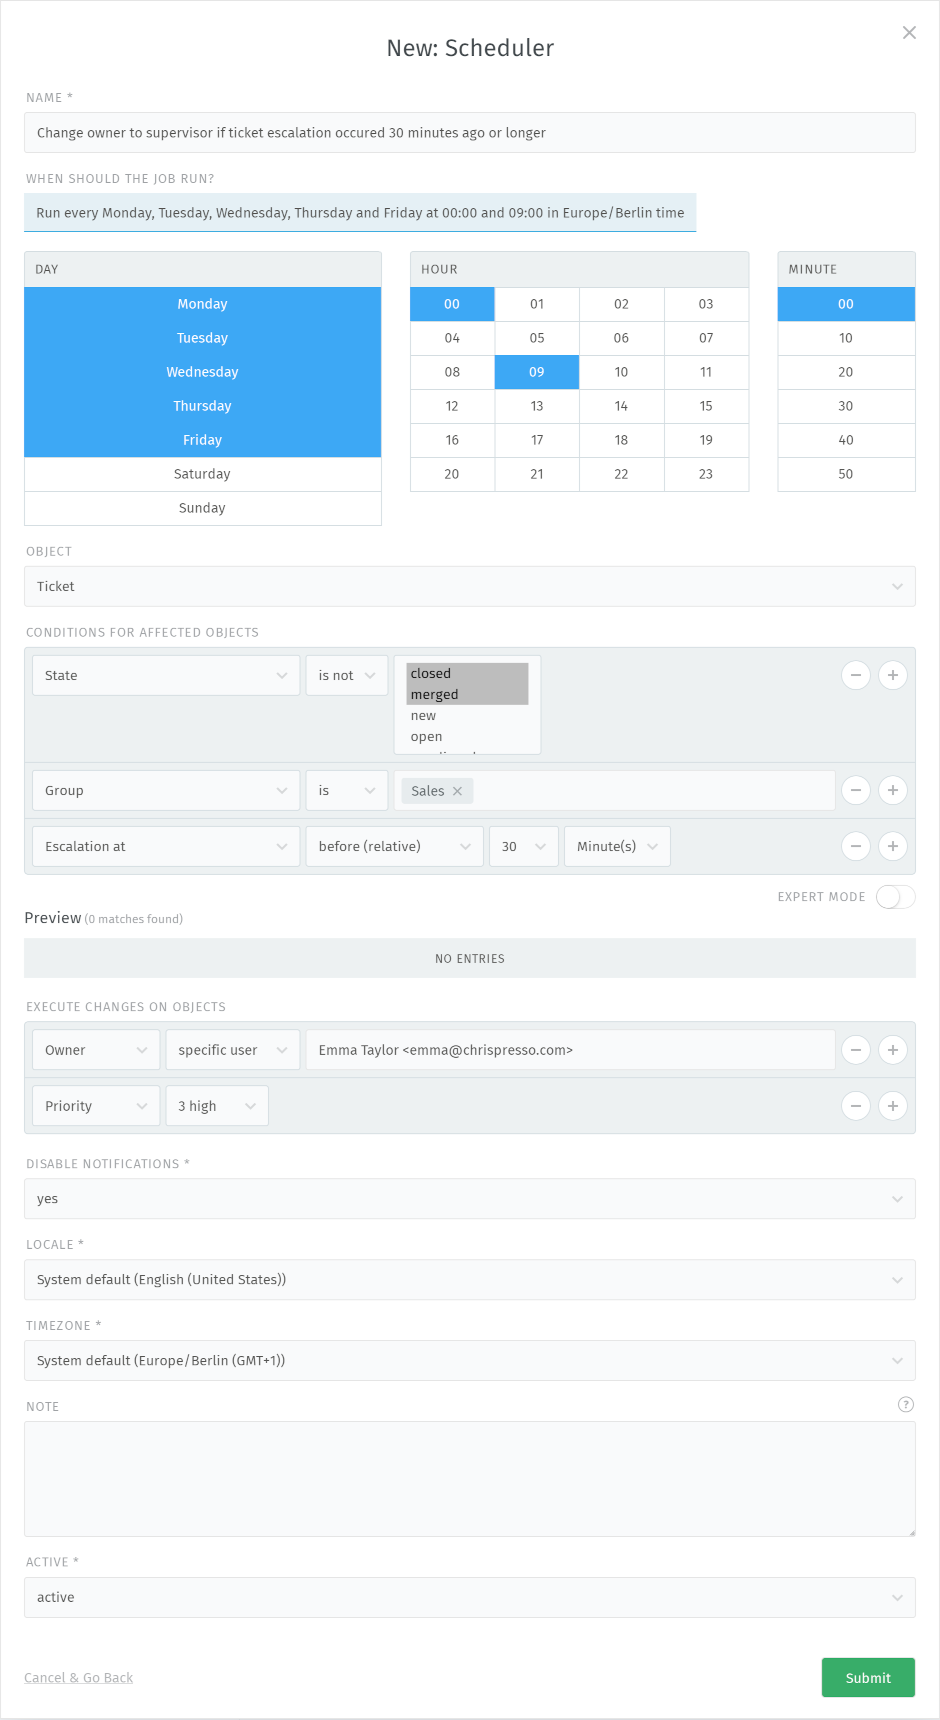
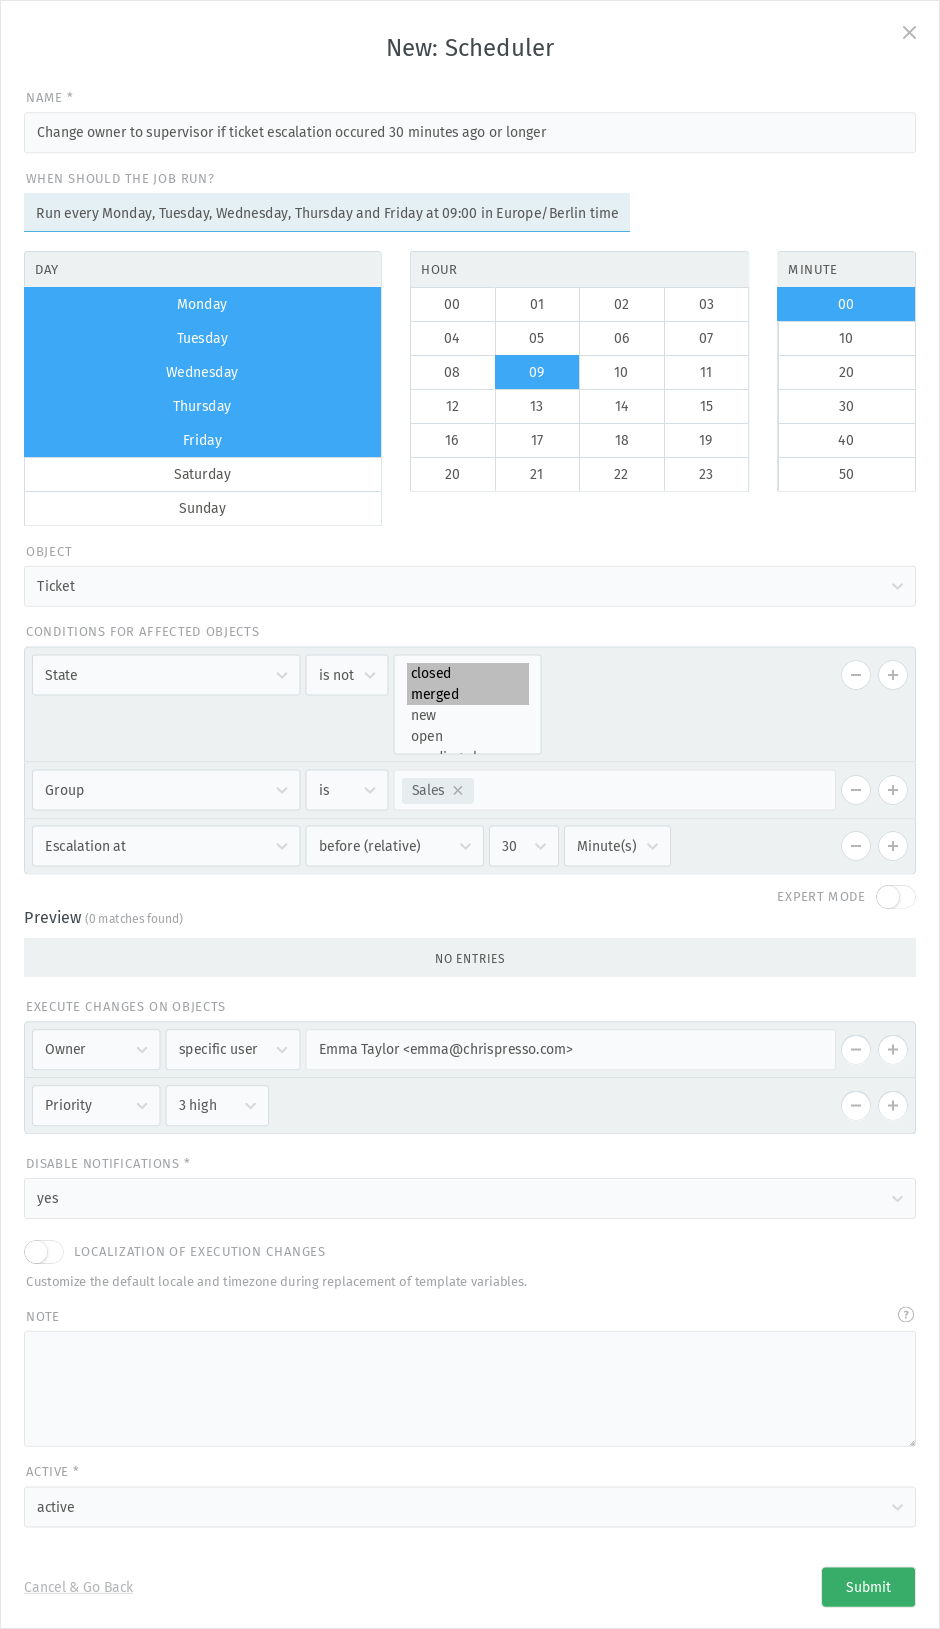
Changes based on review

diff --git a/manage/trigger/how-do-they-work.rst b/manage/trigger/how-do-they-work.rst
@@ -111,14 +111,15 @@ A trigger can do the following things once its conditions have been met:
    This allows you to help your agents with specific information if needed.
    (e.g. automated changes a trigger applied to the ticket)
 
-Localization of Trigger Based Notifications
--------------------------------------------
+Localization of Execution Changes
+---------------------------------
 
-To translate the output of variables and to format date and time stamps for
-notifications in triggers, use the ``t`` and ``dt`` methods.
-The ``t`` method translates the output of variables according to the selected
-"Locale" field below.
-The ``dt`` method transforms a date and time stamp according to the selected
+To translate the output of variables, use the ``t`` function. To format date
+and time stamps, use the ``dt`` function.
+
+The ``t`` function translates the output of variables according to the selected
+"Locale".
+The ``dt`` function transforms a date and time stamp according to the selected
 "Timezone".
 
 .. figure:: /images/manage/trigger/notification-localization.png
@@ -126,10 +127,8 @@ The ``dt`` method transforms a date and time stamp according to the selected
    :scale: 90%
    :alt: Screenshot showing localization section of trigger dialog
 
-Be aware that it is not possible to perform an automatic translation for
-different languages in one trigger. That means if you want to create
-notifications for different languages/regions, you have to create one trigger
-for each language and execute them based on user or organization attributes.
+Best practice is to create single separated localized triggers for each
+language/timezone and execute them based on user or organization attributes.
 
 For more information and examples, please have a look at the explanation in the
 :ref:`variables section <variable_localization>`.

diff --git a/manage/scheduler.rst b/manage/scheduler.rst
@@ -83,13 +83,18 @@ Disable notifications
    You can override this here by setting this to *no*.
 
 Locale
+   This can be activated with the switch labeled "Localization of execution
+   changes".
+
    Set a desired language, in which the output of variables is
-   translated into. This setting only has an effect if you create an article
-   with variables by the scheduler job. Additionally, the value has to be
-   translated. For more information, please have a look at
+   translated into by using the ``t`` function.
+   For more information, please have a look at
    the explanation in the :ref:`variables section <variable_localization>`.
 
 Timezone
+   This can be activated with the switch labeled "Localization of execution
+   changes".
+
    Similar as for the "Locale" setting, you can define a time zone, which is
    applied to the output of time stamp variables.
    For more information, please have a look at
